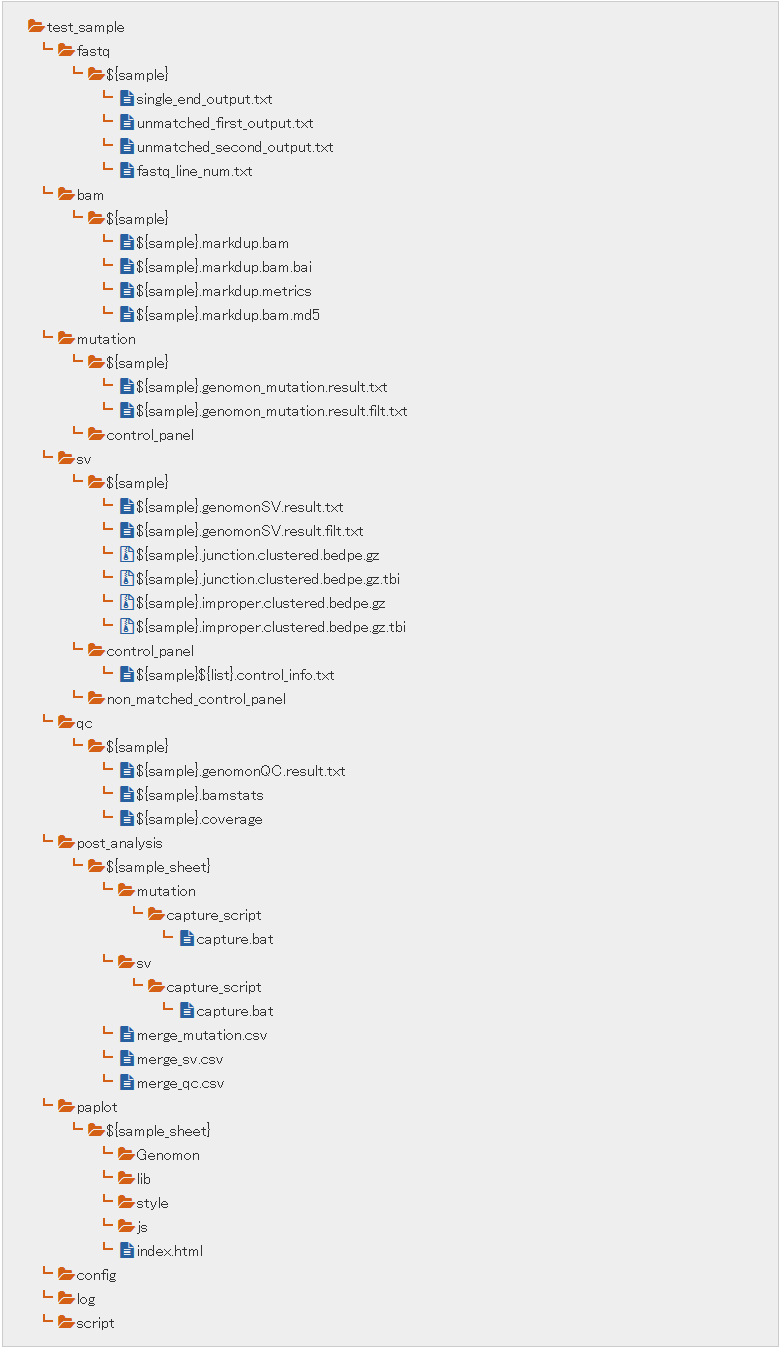
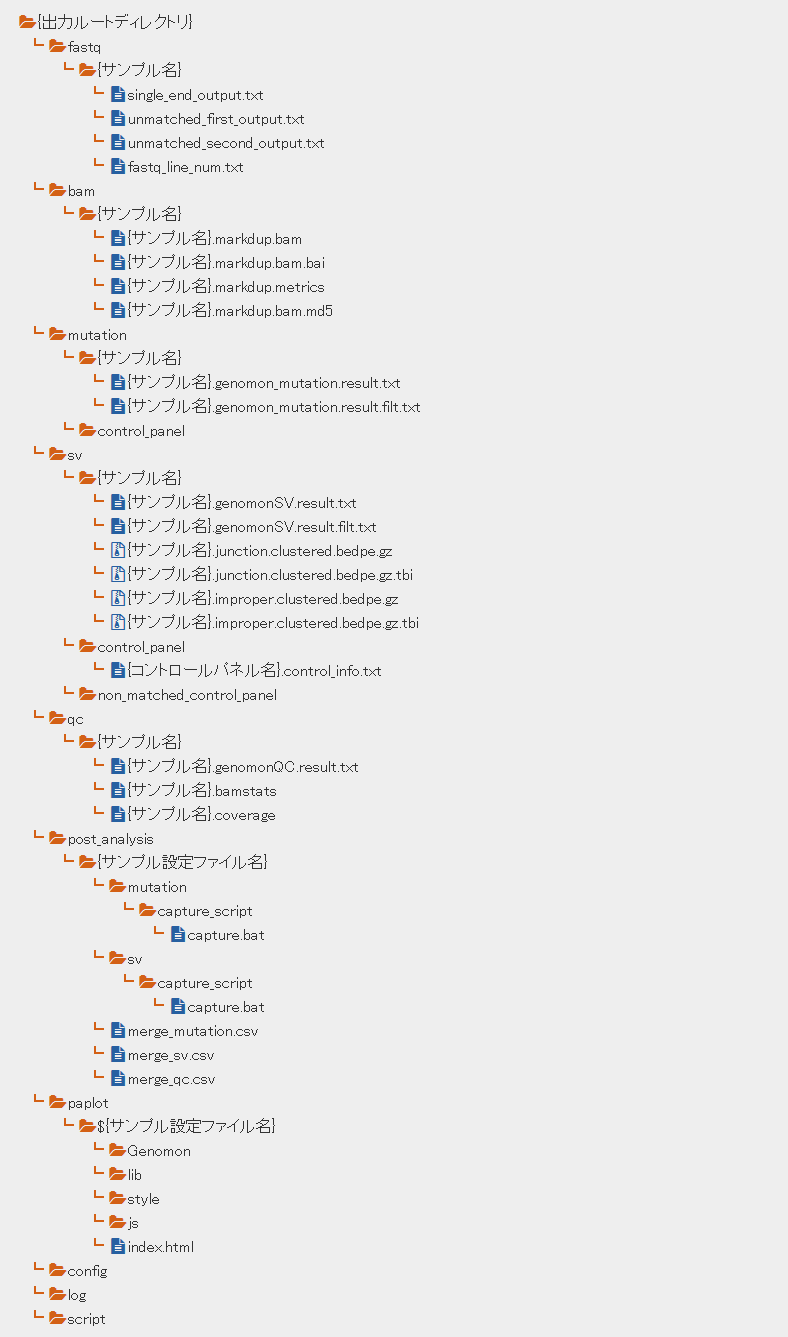
modify tree.png

Changed region(s): [[0.0, 0.0, 0.5217, 1.0]]

diff --git a/tree/genomon_dna_tree.html b/tree/genomon_dna_tree.html
@@ -125,7 +125,7 @@
 			</dl>
 			<dt><icon/>control_panel</dt>
 			<dl>
-				<dd><icon_text/>{サンプル名}${list}.control_info.txt</dd>
+				<dd><icon_text/>{コントロールパネル名}.control_info.txt</dd>
 			</dl>
 			<dt><icon/>non_matched_control_panel</dt>
 			<dl>
